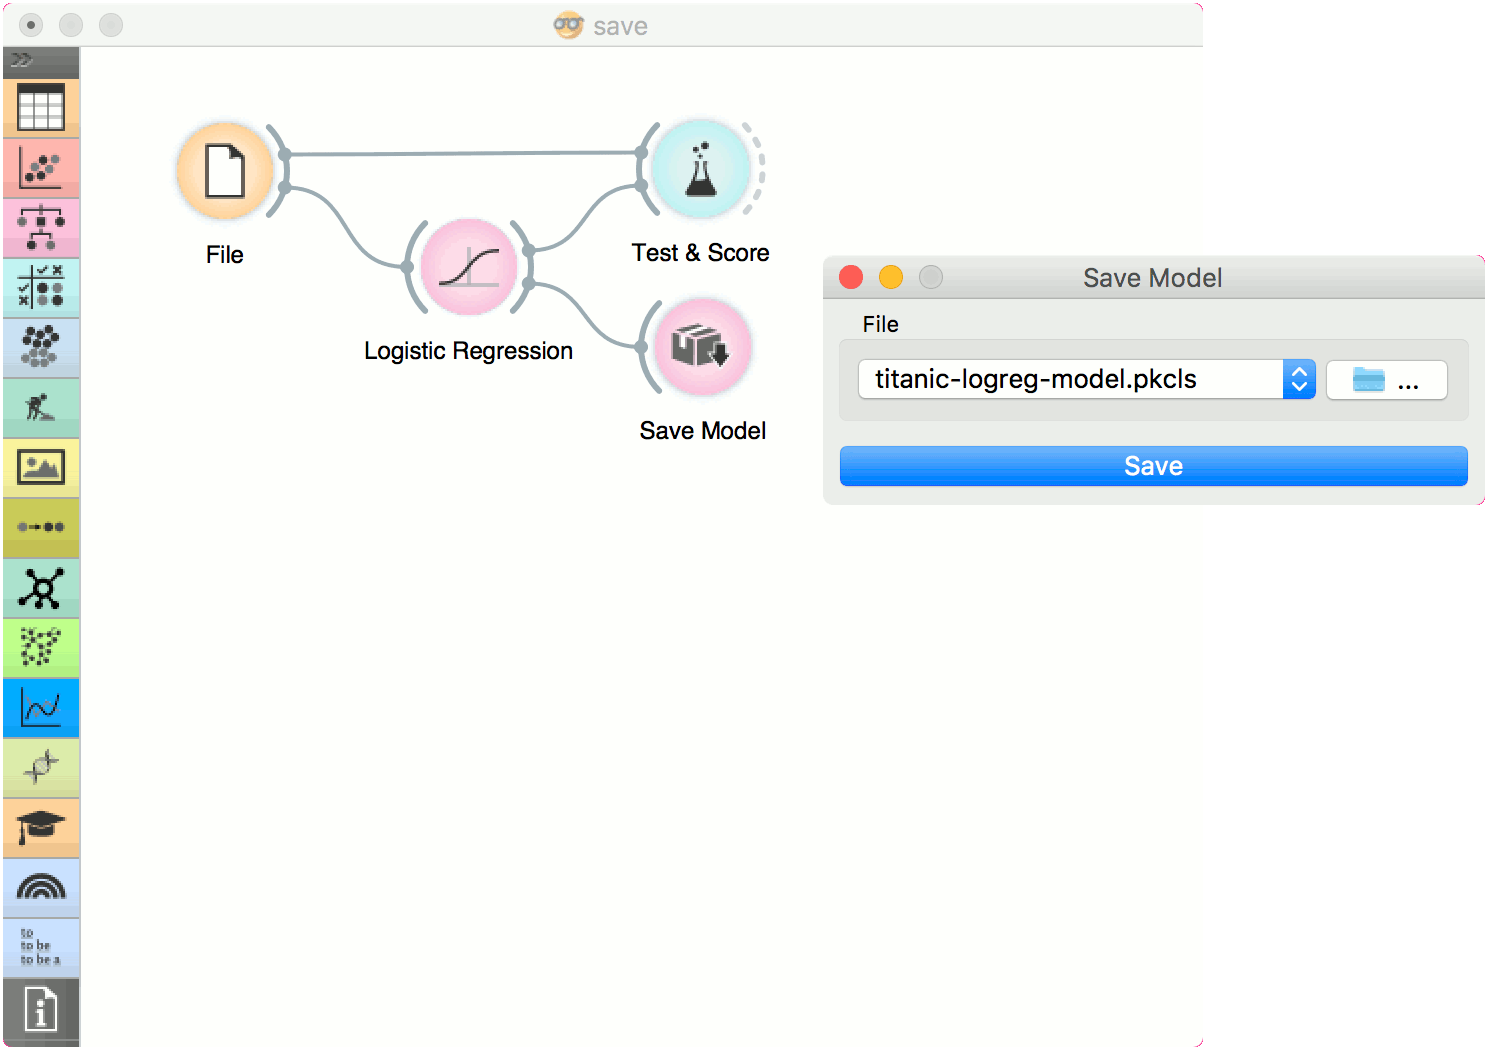
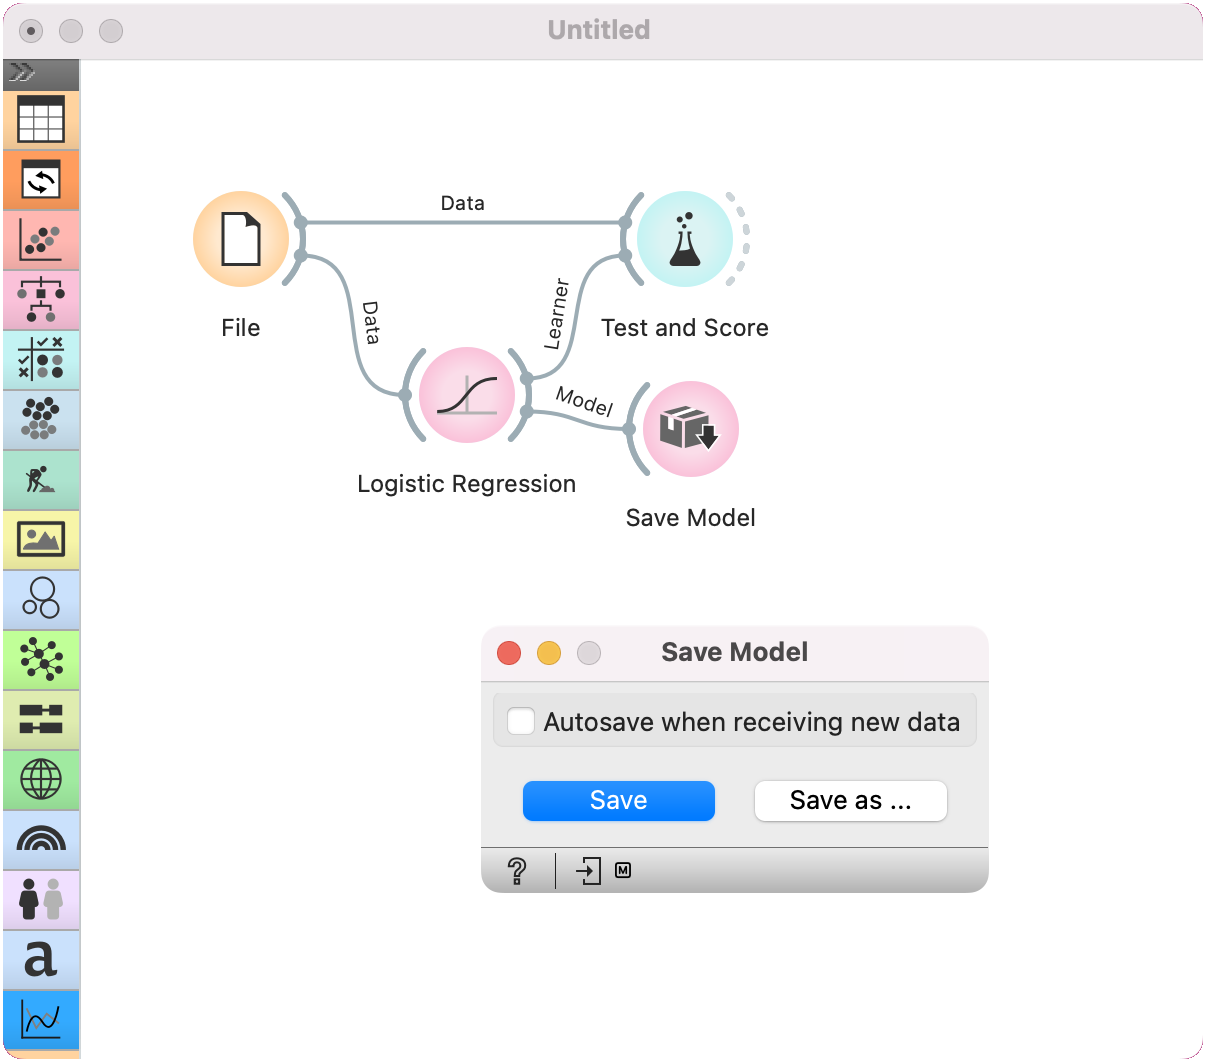
[DOC] Save Model

diff --git a/source/widgets/model/savemodel.md b/source/widgets/model/savemodel.md
@@ -3,22 +3,21 @@ Save Model
 
 Save a trained model to an output file.
 
-If the file is saved to the same directory as the workflow or in the subtree of that directory, the widget remembers the relative path. Otherwise it will store an absolute path, but disable auto save for security reasons.
+If the file is saved to the same directory as the workflow or in the subtree of that directory, the widget remembers the relative path. Otherwise it will store an absolute path, but disable auto save for security reasons. All models are saved in a .pickle format (.pkcls).
 
 **Inputs**
 
 - Model: trained model
 
-![](images/SaveModel-stamped.png)
+![](images/SaveModel.png){width=50%}
 
-1. Choose from previously saved models.
-2. Save the created model with the *Browse* icon. Click on the icon and enter the name of the file. The model will be saved to a pickled file.
-![](images/SaveModel-save.png)
-3. Save the model.
+1. If *Autosave when receiving new data*, the previously saved model will be overwritten when input model is updated.
+2. *Save* the created model. The model will be saved to a pickled file.
+3. *Save as...* enables specifying the name of the file. 
 
 Example
 -------
 
-When you want to save a custom-set model, feed the data to the model (e.g. [Logistic Regression](../model/logisticregression.md)) and connect it to **Save Model**. Name the model; load it later into workflows with [Load Model](../model/loadmodel.md). Datasets used with **Load Model** have to contain compatible attributes.
+When you want to save a custom-set model, feed the data to the model (e.g. [Logistic Regression](../model/logisticregression.md)) and connect it to **Save Model**. Load it later into workflows with [Load Model](../model/loadmodel.md). Datasets used with **Load Model** have to contain compatible attributes.
 
-![](images/SaveModel-example.png)
+![](images/SaveModel-Example.png)
